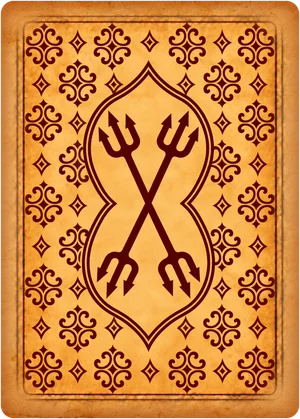
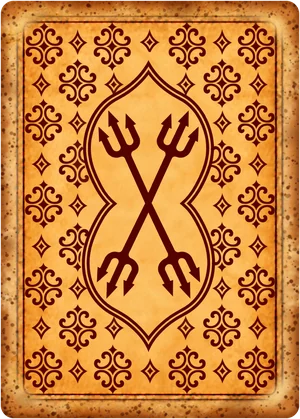
Infernal parchment: crisper, blotchier browned edges with grime and specks, matching front and back

Changed region(s): [[0.0, 0.0, 1.0, 1.0]]

diff --git a/index.html b/index.html
@@ -16,9 +16,9 @@
   <meta property="og:image" content="share.jpg">
   <meta name="twitter:card" content="summary_large_image">
   <link rel="preload" href="share.jpg" as="image" fetchpriority="low">
-  <link rel="stylesheet" href="./gw.css?v=184">
-  <link rel="stylesheet" href="./oh.css?v=184">
-  <link rel="stylesheet" href="./bv-more.css?v=184">
+  <link rel="stylesheet" href="./gw.css?v=185">
+  <link rel="stylesheet" href="./oh.css?v=185">
+  <link rel="stylesheet" href="./bv-more.css?v=185">
 </head>
 <body>
 <!-- The Infernal suits (Look & feel): drawn with <use href="#s-flame"> etc. -->
@@ -111,7 +111,7 @@
 
 <!-- SPLASH -->
 <div id="splash" role="button" tabindex="0" aria-label="Click to start">
-  <img src="logo-ohhell.webp?v=184" alt="Oh Hell! Extended" class="splash-title">
+  <img src="logo-ohhell.webp?v=185" alt="Oh Hell! Extended" class="splash-title">
   <div class="logo-subtitle splash-subtitle">Oh Hell! with a trick up its sleeve</div>
   <img src="bugvictim.svg" alt="BugVictim" class="splash-logo">
   <div class="splash-credit">© BugVictim 2026</div>
@@ -174,7 +174,7 @@
 
     <div class="start-panel-header">
       <div class="start-header">
-        <img src="logo-ohhell.webp?v=184" alt="Oh Hell! Extended" class="start-title-img">
+        <img src="logo-ohhell.webp?v=185" alt="Oh Hell! Extended" class="start-title-img">
       </div>
 
       <div class="start-logo-row start-credit-line">© BugVictim 2026</div>
@@ -452,12 +452,12 @@
   </div>
 </div>
 
-  <script src="./oh-core.js?v=184"></script>
-  <script src="./oh-tutorial.js?v=184"></script>
-  <script src="./oh-ai.js?v=184"></script>
-  <script src="./bv-more.js?v=184"></script>
-  <script src="./oh-souls.js?v=184"></script>
-  <script src="./oh-app.js?v=184"></script>
+  <script src="./oh-core.js?v=185"></script>
+  <script src="./oh-tutorial.js?v=185"></script>
+  <script src="./oh-ai.js?v=185"></script>
+  <script src="./bv-more.js?v=185"></script>
+  <script src="./oh-souls.js?v=185"></script>
+  <script src="./oh-app.js?v=185"></script>
   <script>
     BVMore.init({ key: "oh-hell-extended", title: "Oh Hell! Extended", others: ["drakeharbour", "german-whist", "artifact"],
       shareText: "Bid your tricks, then win exactly that many. Play Oh Hell! Extended.",

diff --git a/oh.css b/oh.css
@@ -1723,7 +1723,7 @@ body.suits-infernal .opt-row-colours { display: none; }   /* Infernal suits have
 
 /* ===== The Infernal set is printed on parchment, with woodcut court figures (img/inf-*.webp) ===== */
 body.suits-infernal .card:not(.back) {
-  background: #e8cc93 url("img/parchment-card.webp?v=2") center / 100% 100% no-repeat;
+  background: #e8cc93 url("img/parchment-card.webp?v=3") center / 100% 100% no-repeat;
   border-color: #8f6a3c;
 }
 .card .inf-court { position: absolute; inset: 3% 4%; overflow: hidden; pointer-events: none; }   /* no frame line: the art sits on the parchment */
@@ -1746,5 +1746,5 @@ body.suits-infernal .card:not(.back) .corner { text-shadow: 0 0 2px #f1dcae, 0 0
 .trump-coin .coin-suit:has(.sg) { display: flex; align-items: center; justify-content: center; line-height: 0; }
 .trump-coin .coin-suit .sg { vertical-align: 0; display: block; }
 /* the Infernal back (its parchment edge is part of the picture) */
-body.back-infernal .card.back { background: transparent url("back-infernal.webp?v=4") center / 100% 100% no-repeat; border-color: transparent; }
-.seg-backs .bk-infernal { background: transparent url("back-infernal.webp?v=4") center / 100% 100% no-repeat !important; }
+body.back-infernal .card.back { background: transparent url("back-infernal.webp?v=5") center / 100% 100% no-repeat; border-color: transparent; }
+.seg-backs .bk-infernal { background: transparent url("back-infernal.webp?v=5") center / 100% 100% no-repeat !important; }

diff --git a/tools/make-aged-parchment.py b/tools/make-aged-parchment.py
@@ -1,0 +1,44 @@
+# Aged parchment edges: a crisp, uneven browned band with blotchy grime, specks and stains.
+import random
+from PIL import Image, ImageDraw, ImageFilter, ImageChops
+def cloud(size, cell, rnd):
+    w, h = size[0] // cell + 3, size[1] // cell + 3
+    small = Image.new('L', (w, h)); small.putdata([int(rnd.random() * 255) for _ in range(w * h)])
+    return small.resize((w * cell, h * cell), Image.BICUBIC).crop((cell, cell, cell + size[0], cell + size[1]))
+def edge(size, inset, blur):
+    m = Image.new('L', size, 0); ImageDraw.Draw(m).rounded_rectangle((inset, inset, size[0] - inset - 1, size[1] - inset - 1), radius=inset * 2, fill=255)
+    return ImageChops.invert(m.filter(ImageFilter.GaussianBlur(blur)))
+def aged(img, seed=3):
+    rnd = random.Random(seed); W, H = img.size; k = W / 300
+    # grime: three scales of noise mixed, contrast pushed so it's blotchy rather than smooth
+    n = ImageChops.add(ImageChops.multiply(cloud(img.size, int(40 * k), rnd), Image.new('L', img.size, 160)),
+                       ImageChops.multiply(cloud(img.size, int(12 * k), rnd), Image.new('L', img.size, 95)))
+    n = ImageChops.add(n, ImageChops.multiply(cloud(img.size, max(2, int(3 * k)), rnd), Image.new('L', img.size, 60)))
+    n = n.point(lambda v: max(0, min(255, int((v - 110) * 1.9 + 128))))
+    # the band: narrower and crisper than before, its inner edge made uneven by the noise
+    band = edge(img.size, int(11 * k), 5 * k)
+    band = ImageChops.multiply(band, n.point(lambda v: 40 + v * 215 // 255))
+    band = band.point(lambda v: min(255, int(v * 1.45)))
+    rim = edge(img.size, int(3 * k), 1.6 * k)
+    warm = ImageChops.multiply(img, Image.new('RGB', img.size, (214, 150, 92)))
+    out = Image.composite(warm, img, band)
+    deep = ImageChops.multiply(img, Image.new('RGB', img.size, (150, 88, 44)))
+    out = Image.composite(deep, out, ImageChops.multiply(edge(img.size, int(5 * k), 2.2 * k), n.point(lambda v: 70 + v * 185 // 255)))
+    # small warm stains near the edges, and dark specks, thicker towards the edges
+    d = Image.new('L', img.size, 0); dr = ImageDraw.Draw(d)
+    for _ in range(9):
+        side = rnd.randrange(4); t = rnd.random(); inn = (4 + rnd.random() * 22) * k
+        x, y = [(t * W, inn), (t * W, H - inn), (inn, t * H), (W - inn, t * H)][side]
+        r = (5 + rnd.random() * 12) * k
+        dr.ellipse((x - r, y - r * 0.75, x + r, y + r * 0.75), fill=int(60 + rnd.random() * 60))
+    d = d.filter(ImageFilter.GaussianBlur(3.5 * k))
+    sp = Image.new('L', img.size, 0); sd = ImageDraw.Draw(sp)
+    for _ in range(int(900 * k * k)):
+        x, y = rnd.random() * W, rnd.random() * H
+        dist = min(x, y, W - x, H - y) / W
+        if rnd.random() > (0.5 if dist < 0.05 else 0.22 if dist < 0.12 else 0.03): continue
+        r = (0.35 + rnd.random() ** 3 * 1.6) * k
+        sd.ellipse((x - r, y - r, x + r, y + r), fill=int(110 + rnd.random() * 140))
+    d = ImageChops.lighter(d, sp.filter(ImageFilter.GaussianBlur(0.35 * k)))
+    dirt = ImageChops.multiply(out, Image.new('RGB', img.size, (120, 72, 36)))
+    return Image.composite(dirt, out, d)
